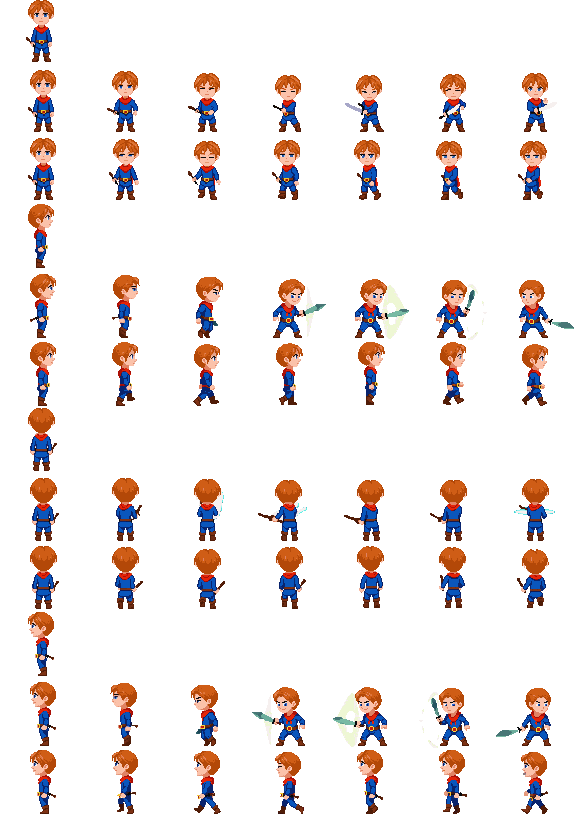
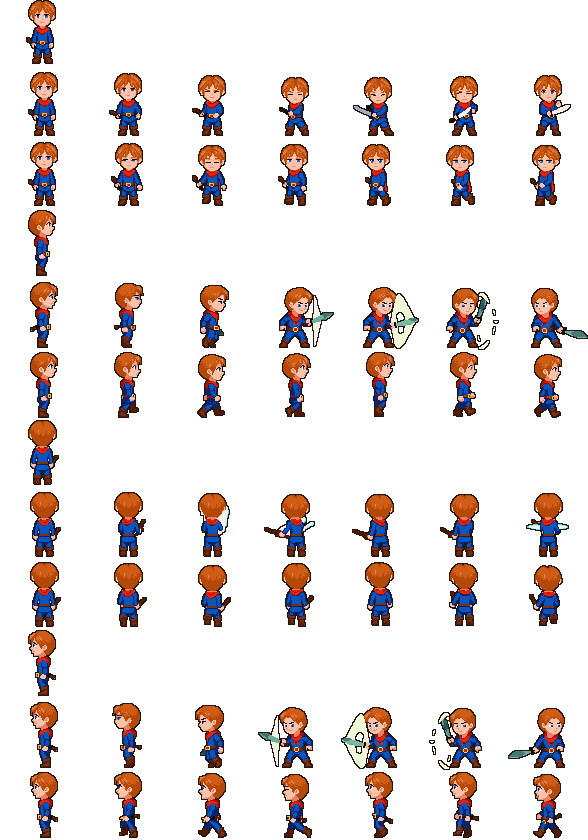
Player sprite: 1 px dark outline, Ragnarok Online style
pack-sprites.py can trace a solid border around each frame's
silhouette ('outline' option); the player now gets a 1 px dark brown
one. pixellab.py can generate a single character by name, and the
player prompt asks for a Ragnarok Online look (bigger head, bold
outline, cel shading) for the next regeneration.

Claude-Session: https://claude.ai/code/session_011XQ9QCw3CGEUAN2nqYKZsD

diff --git a/build-tools/pixellab.py b/build-tools/pixellab.py
@@ -1,8 +1,10 @@
 """PixelLab sprite generator. Runs inside GitHub Actions (GitHub's servers can reach the API).
 
-  probe     save the API schema + account balance
-  generate  create the player + Green Slime with walk and attack animations, then download
-            each character's zip into <out>/<name>/
+  probe             save the API schema + account balance
+  generate [names]  create the characters (default: all) with their animations, then download
+                    each character's zip into <out>/<name>/
+
+  python3 build-tools/pixellab.py generate art/pixellab player   (needs PIXELLAB_API_KEY)
 
 Results are committed to the `art` branch by the workflow.
 """
@@ -10,25 +12,29 @@ import io, json, os, sys, time, zipfile
 import requests
 
 BASE = "https://api.pixellab.ai/v2"
-task, out = sys.argv[1], sys.argv[2]
+task, out, only = sys.argv[1], sys.argv[2], sys.argv[3:]
 key = os.environ.get("PIXELLAB_API_KEY", "")
 H = {"Authorization": f"Bearer {key}", "Content-Type": "application/json"}
 DIRS = ["south", "east", "north", "west"]
 
 STYLE = "cute chibi fantasy RPG sprite in the style of classic 2000s MMORPGs, soft shading"
+# Ragnarok Online look: big head, small body, bold dark outline, soft cel shading
+RO_STYLE = ("Ragnarok Online style 2D sprite, chibi with a big head and large anime eyes, small body, "
+            "bold dark brown outline around the whole figure, soft painterly cel shading, warm colors")
 
 CHARACTERS = [
     {
         "name": "player",
         "endpoint": "/create-character-with-4-directions",
         "body": {
-            "description": "young adventurer with messy orange-brown hair, blue tunic with a brown belt, "
-                           "red scarf, brown boots, small sword at the hip. " + STYLE,
+            "description": "young novice swordsman with spiky orange-brown hair, blue tunic with a brown belt, "
+                           "red scarf, brown boots, short sword. " + RO_STYLE,
             "image_size": {"width": 64, "height": 64},
             "view": "low top-down",
-            "proportions": {"type": "preset", "name": "chibi"},
+            "proportions": {"type": "custom", "head_size": 1.5, "arms_length": 0.9, "legs_length": 0.8,
+                            "shoulder_width": 0.9, "hip_width": 0.9},
             "outline": "single color black outline",
-            "shading": "basic shading",
+            "shading": "medium shading",
             "detail": "medium detail",
         },
         "animations": [
@@ -126,6 +132,8 @@ if task == "generate":
     manifest = {}
     for ch in CHARACTERS:
         name = ch["name"]
+        if only and name not in only:
+            continue
         try:
             res = post(ch["endpoint"], ch["body"])
             cid = res["character_id"]

diff --git a/build-tools/pack-sprites.py b/build-tools/pack-sprites.py
@@ -7,7 +7,7 @@ with the frame size and where each animation lives. Frames are cropped to one sh
 character, kept horizontally centered on the body so the sprite anchor stays under the feet.
 """
 import json, os, sys
-from PIL import Image, ImageOps
+from PIL import Image, ImageFilter, ImageOps
 
 ROOT = os.path.dirname(os.path.dirname(os.path.abspath(__file__)))
 SRC = os.path.join(ROOT, 'art', 'pixellab')
@@ -15,12 +15,21 @@ OUT = os.path.join(ROOT, 'src', 'art')
 DIRS = {'south': 'down', 'east': 'right', 'north': 'up', 'west': 'left'}
 MIRROR = {'right': 'left', 'left': 'right'}
 
-# name -> options. 'mirror' lists (anim, direction) pairs drawn as the mirror of the opposite side:
-# PixelLab drew the player's east attack without the sword, so it reuses the west one.
+# name -> options.
+#   mirror:  (anim, direction) pairs drawn as the mirror of the opposite side
+#   outline: (pixels, colour) solid border traced around the silhouette, Ragnarok Online style
 CHARS = {
-    'player': {'mirror': {('attack', 'right')}},
+    'player': {'mirror': {('attack', 'right')}, 'outline': (1, (34, 22, 14))},
     'slime': {},
 }
+
+
+def outline(f, width, colour):
+    solid = f.getchannel('A').point(lambda a: 255 if a >= 128 else 0)
+    ring = solid.filter(ImageFilter.MaxFilter(2 * width + 1))
+    out = Image.new('RGBA', f.size, colour + (0,))
+    out.putalpha(ring)
+    return Image.alpha_composite(out, f)
 
 
 def load(name):
@@ -40,6 +49,10 @@ def pack(name, opts):
     art = load(name)
     for anim, d in opts.get('mirror', ()):
         art[d][anim] = [ImageOps.mirror(f) for f in art[MIRROR[d]][anim]]
+    if 'outline' in opts:
+        for d in art.values():
+            for anim, fs in d.items():
+                d[anim] = [outline(f, *opts['outline']) for f in fs]
 
     every = [f for d in art.values() for fs in d.values() for f in fs]
     W, H = every[0].size
